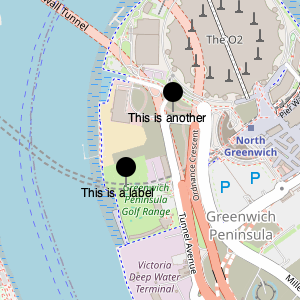
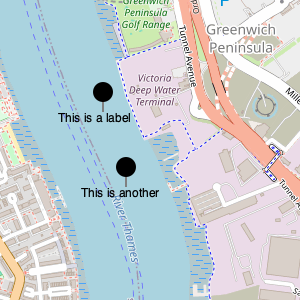
Add example for labels

diff --git a/Snippets/Labels.swift b/Snippets/Labels.swift
@@ -10,10 +10,10 @@ guard CommandLine.argc == 2 else {
 let outputPath = CommandLine.arguments[1]
 
 let staticMap = StaticMap(
-    center: .init(latitude: 51.5, longitude: 0),
+    center: .init(latitude: 51.495, longitude: 0),
     annotations: [
-        .pin(coords: .init(latitude: 51.499, longitude: -0.001)).label("This is a label"),
-        .pin(coords: .init(latitude: 51.501, longitude: 0.001)).label("This is another"),
+        .pin(coords: .init(latitude: 51.496, longitude: -0.002)).label("This is a label"),
+        .pin(coords: .init(latitude: 51.494, longitude: -0.001)).label("This is another"),
     ]
 )
 let image = try await staticMap.render()

diff --git a/README.md b/README.md
@@ -33,3 +33,17 @@ StaticMap(
 ```
 
 ![Pins](Images/Pins.png)
+
+### Labels
+
+```swift
+StaticMap(
+    center: .init(latitude: 51.495, longitude: 0),
+    annotations: [
+        .pin(coords: .init(latitude: 51.496, longitude: -0.002)).label("This is a label"),
+        .pin(coords: .init(latitude: 51.494, longitude: -0.001)).label("This is another"),
+    ]
+)
+```
+
+![Labels](Images/Labels.png)
